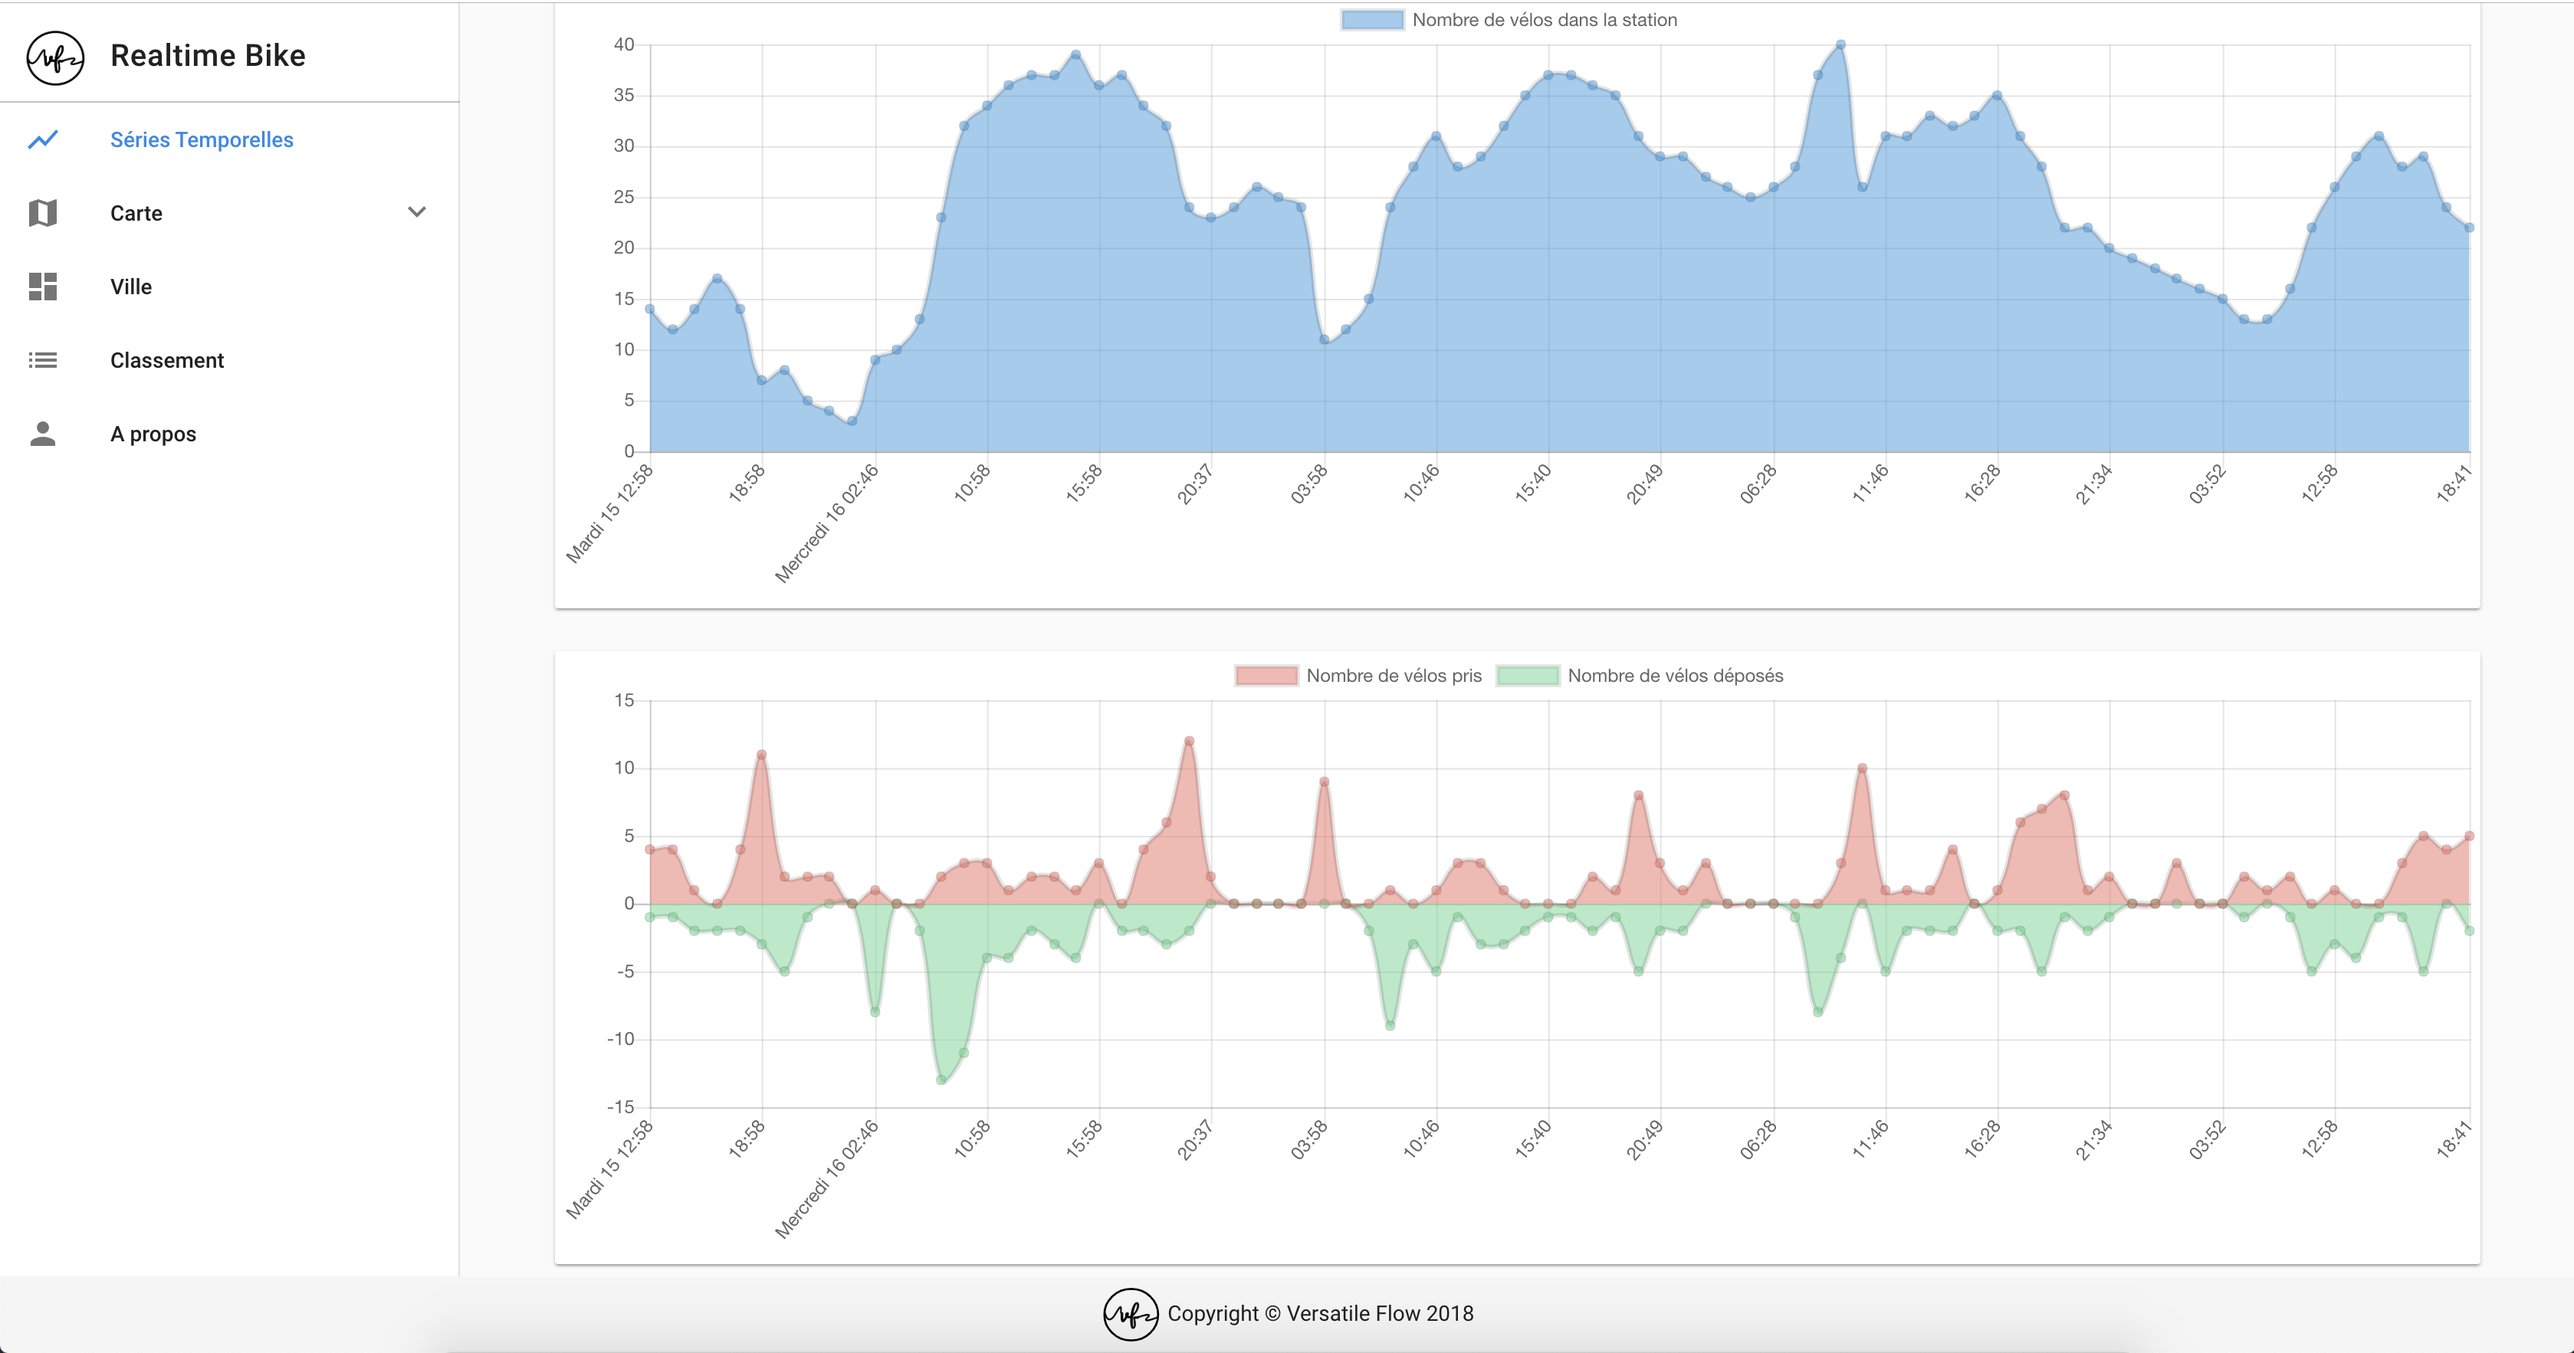
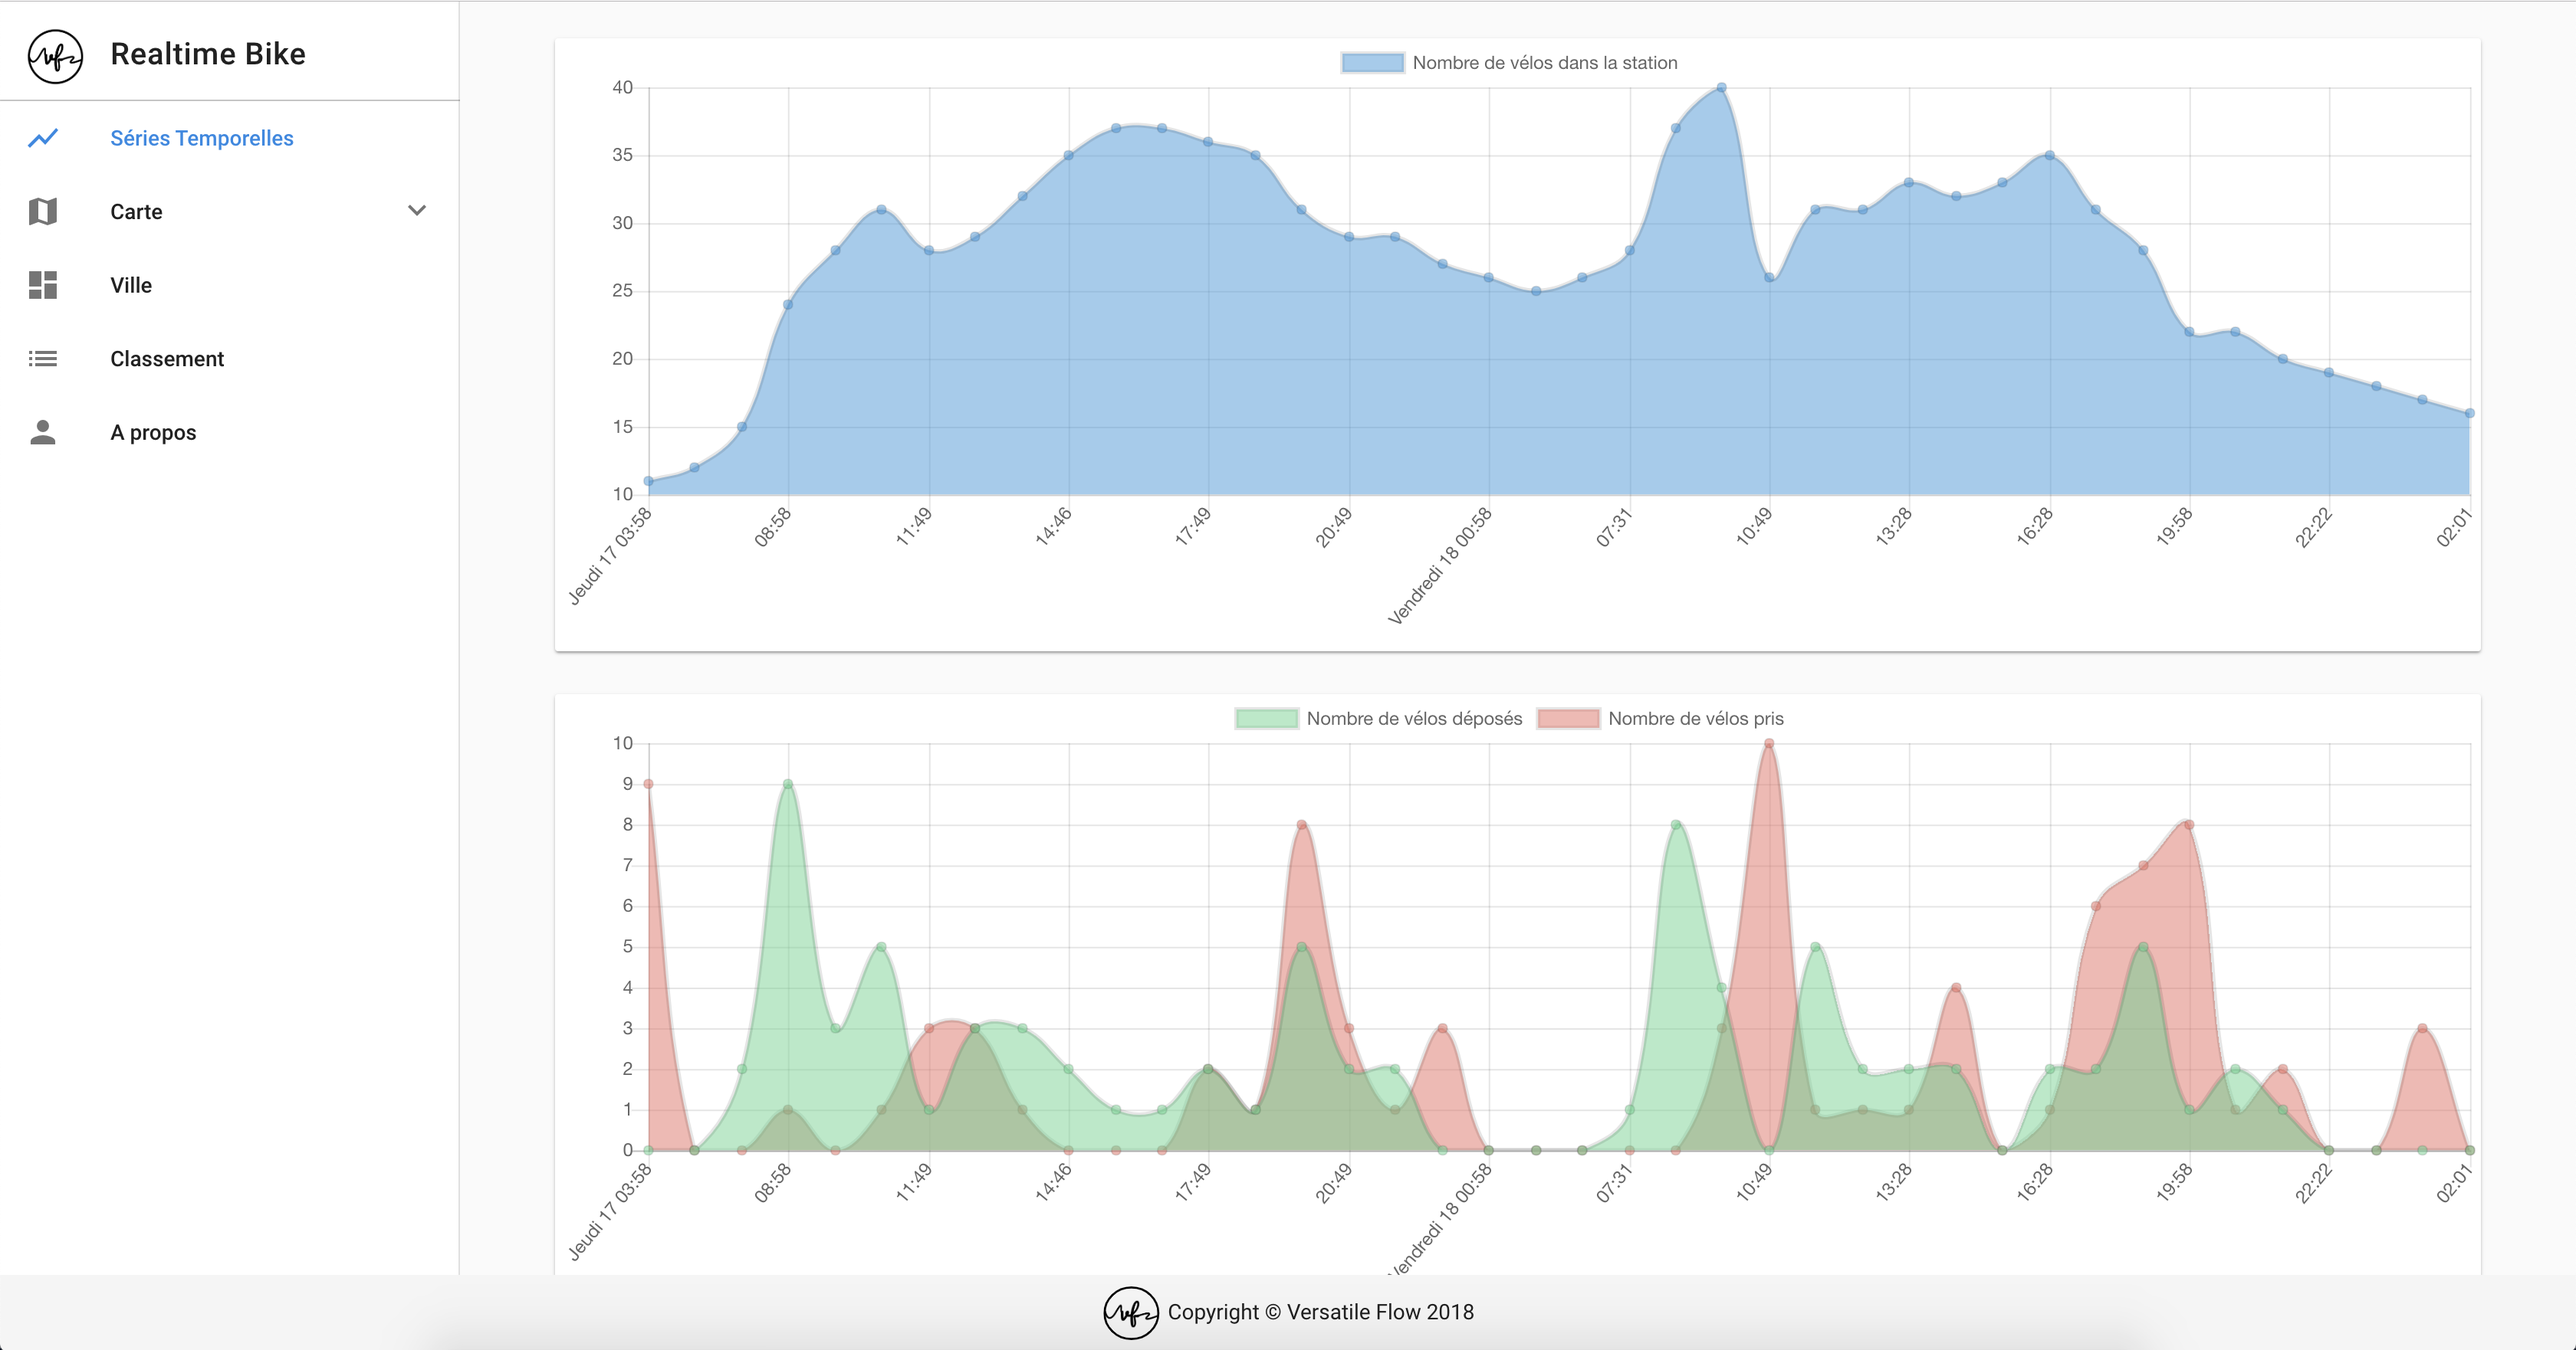
update stations filter on collector

diff --git a/frontend/store/modules/charts.js b/frontend/store/modules/charts.js
@@ -38,14 +38,14 @@ const getters = {
     labels: state.labels,
     datasets: [
       {
-        label: "Nombre de vélos pris",
-        backgroundColor: Colors.color().lightred,
-        data: state.bikesTaken
-      },
-      {
         label: "Nombre de vélos déposés",
         backgroundColor: Colors.color().green,
-        data: state.bikesDroped.map(value => -value)
+        data: state.bikesDroped
+      },
+      {
+        label: "Nombre de vélos pris",
+        backgroundColor: Colors.color().lightred,
+        data: state.bikesTaken.map(value => value)
       }
     ],
     fill: false

diff --git a/frontend/utils/colors.js b/frontend/utils/colors.js
@@ -10,7 +10,8 @@ export default class {
       purple: "rgba(215,189,226,.5)",
       darkred: "rgba(146,43,33,.5)",
       darkblue: "rgba(31,97,141,.5)",
-      darkgreen: "rgba(25,111,61,.5)"
+      darkgreen: "rgba(25,111,61,.5)",
+      redishpink: "rgba(241,148,138,.6"
     }
   }
 }
